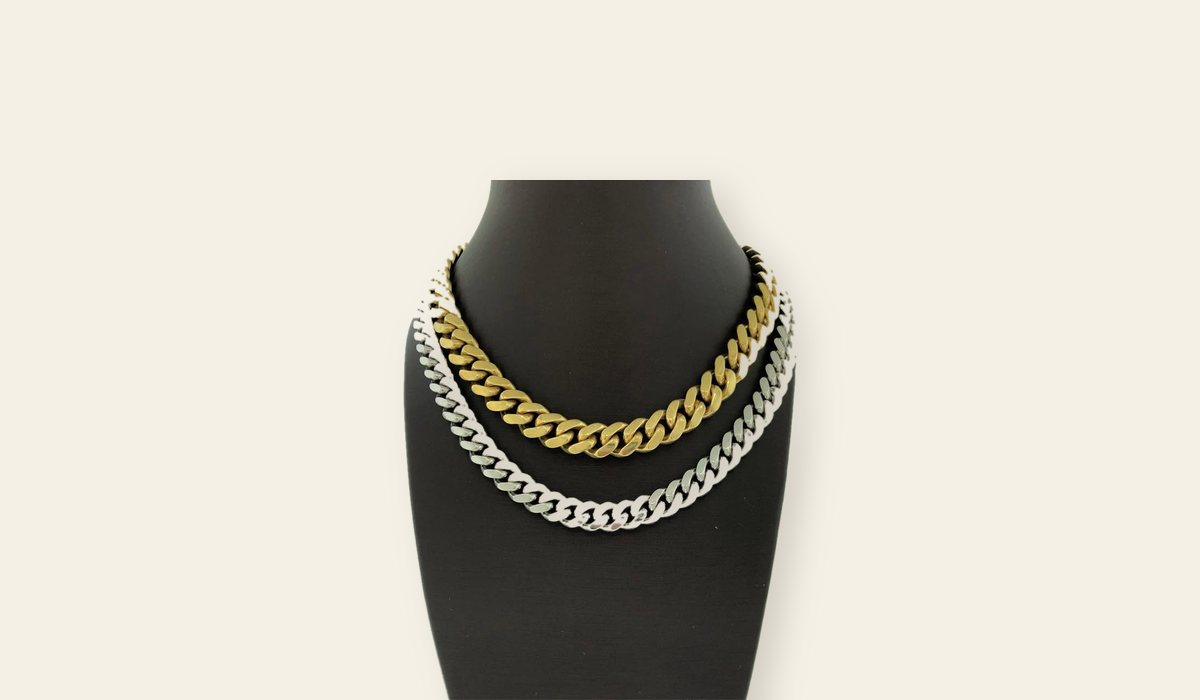
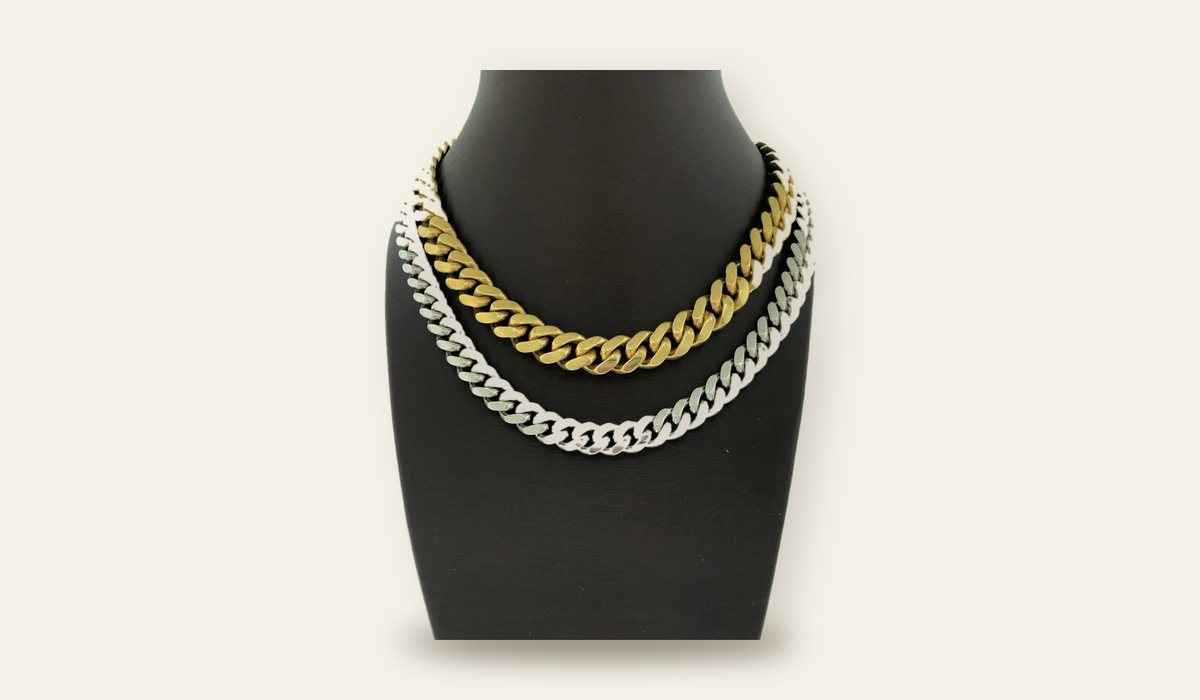
Phone heroes: taller band, clean paper slides, nothing clipped

Changed region(s): [[0.3083, 0.09, 0.6783, 0.84], [0.3392, 0.81, 0.6475, 1.0]]

diff --git a/index.html b/index.html
@@ -21,7 +21,7 @@
 <link rel="preload" href="/aframs-site-preview/fonts/hanken.woff2" as="font" type="font/woff2" crossorigin>
 <link rel="preload" href="/aframs-site-preview/img/hero-1600.jpg" as="image" media="(min-width: 761px)">
 <link rel="preload" href="/aframs-site-preview/img/hero-m.jpg" as="image" media="(max-width: 760px)">
-<link rel="stylesheet" href="/aframs-site-preview/css/site.css?v=d409207c">
+<link rel="stylesheet" href="/aframs-site-preview/css/site.css?v=5d2cd0c8">
 <script type="application/ld+json">{"@context": "https://schema.org", "@type": "JewelryStore", "name": "Afram's Jewelers", "url": "https://www.aframs.com/", "telephone": "+1-361-993-9391", "email": "aframsjewelers@gmail.com", "foundingDate": "1978", "founder": {"@type": "Person", "name": "Joseph Malak Afram"}, "address": {"@type": "PostalAddress", "streetAddress": "1701 Airline Rd", "addressLocality": "Corpus Christi", "addressRegion": "TX", "postalCode": "78412", "addressCountry": "US"}, "geo": {"@type": "GeoCoordinates", "latitude": 27.6991582, "longitude": -97.3633394}, "openingHoursSpecification": [{"@type": "OpeningHoursSpecification", "dayOfWeek": ["Tuesday", "Wednesday", "Thursday", "Friday", "Saturday"], "opens": "10:00", "closes": "18:00"}], "aggregateRating": {"@type": "AggregateRating", "ratingValue": "4.7", "reviewCount": "389"}, "sameAs": ["https://www.facebook.com/aframsjewelers/", "https://www.instagram.com/aframs.jewelers/"], "image": "https://www.aframs.com/img/og.jpg"}</script>
 </head>
 <body>
@@ -56,7 +56,7 @@
 
 <main id="top">
   <section class="hero hero-show" aria-label="Welcome">
-    <div class="slides"><figure class="slide full on"><picture><source media="(max-width:760px)" srcset="/aframs-site-preview/img/hero-m.jpg"><img src="/aframs-site-preview/img/hero-1600.jpg" alt="Pear-shaped diamond solitaire engagement ring" style="--pos:78% 50%;--mpos:50% 40%" fetchpriority="high"></picture></figure><figure class="slide full"><picture><source media="(max-width:760px)" srcset="/aframs-site-preview/img/hero-jewelry-800.jpg"><img src="/aframs-site-preview/img/slide-jewels.jpg" alt="Diamond and gemstone jewelry" style="--pos:50% 50%;--mpos:45% 30%" loading="lazy"></picture></figure><figure class="slide full"><picture><source media="(max-width:760px)" srcset="/aframs-site-preview/img/slide-seiko-m.jpg"><img src="/aframs-site-preview/img/slide-seiko.jpg" alt="Seiko Prospex Samurai, Seiko 5 Sports and two-tone Seiko dress watch" style="--pos:50% 50%;--mpos:50% 50%" loading="lazy"></picture></figure><figure class="slide full"><picture><source media="(max-width:760px)" srcset="/aframs-site-preview/img/slide-gold-m.jpg"><img src="/aframs-site-preview/img/slide-gold.jpg" alt="Gold and white gold cuban link chains on a display bust" style="--pos:50% 50%;--mpos:50% 100%" loading="lazy"></picture></figure><figure class="slide side"><picture><source media="(max-width:760px)" srcset="/aframs-site-preview/img/hero-repair-800.jpg"><img src="/aframs-site-preview/img/hero-repair-1500.jpg" alt="Woman fastening the clasp of a gold chain necklace" style="--pos:50% 78%;--mpos:50% 62%" loading="lazy"></picture></figure></div>
+    <div class="slides"><figure class="slide full on"><picture><source media="(max-width:760px)" srcset="/aframs-site-preview/img/hero-m.jpg"><img src="/aframs-site-preview/img/hero-1600.jpg" alt="Pear-shaped diamond solitaire engagement ring" style="--pos:78% 50%;--mpos:50% 40%" fetchpriority="high"></picture></figure><figure class="slide full"><picture><source media="(max-width:760px)" srcset="/aframs-site-preview/img/slide-jewels-m.jpg"><img src="/aframs-site-preview/img/slide-jewels.jpg" alt="Sapphire ring, diamond pendant, ruby drop earrings and emerald cuff bracelet" style="--pos:50% 50%;--mpos:50% 50%" loading="lazy"></picture></figure><figure class="slide full"><picture><source media="(max-width:760px)" srcset="/aframs-site-preview/img/slide-seiko-m.jpg"><img src="/aframs-site-preview/img/slide-seiko.jpg" alt="Seiko Prospex Samurai, Seiko 5 Sports and two-tone Seiko dress watch" style="--pos:50% 50%;--mpos:50% 50%" loading="lazy"></picture></figure><figure class="slide full"><picture><source media="(max-width:760px)" srcset="/aframs-site-preview/img/slide-gold-m.jpg"><img src="/aframs-site-preview/img/slide-gold.jpg" alt="Gold and white gold cuban link chains on a display bust" style="--pos:50% 50%;--mpos:50% 50%" loading="lazy"></picture></figure><figure class="slide side"><picture><source media="(max-width:760px)" srcset="/aframs-site-preview/img/slide-repair-m.jpg"><img src="/aframs-site-preview/img/hero-repair-1500.jpg" alt="Gold chains and jewelry for repair" style="--pos:50% 78%;--mpos:50% 50%" loading="lazy"></picture></figure></div>
     <div class="wrap">
       <div class="hero-copy">
         <h1>Integrity and<br> personal service,<br> since&nbsp;1978.</h1>
@@ -276,6 +276,6 @@
 </div>
 
 <script>window.R=[{"n": "Nellie S.", "t": "I’ve had a couple of jewelry repairs completed here and have always been treated fairly. The quality of the work has been great, and overall, I’ve been happy with my experiences."}, {"n": "Kathi C.", "t": "I stopped in twice after I received recommendations from a couple of friends. I needed some work done on a couple of bracelets."}, {"n": "Chris P.", "t": "I have been coming to their establishment for several years now it’s hard to find a place that replaces batteries for watches. They’re very reasonable and very polite."}, {"n": "Jake M.", "t": "The team at Aframs is the best. They took care of multiple projects for me from in store buys to customs made items. Highly recommend and will be back!"}, {"n": "Candace H.", "t": "Had such a great experience at Afram’s! I came in expecting to drop off my broken necklace, but they ended up fixing it on the spot in about 10 minutes."}, {"n": "Shane W.", "t": "The folks at Afram’s jewelers are very professional very courteous, very helpful and knowledgeable and just go above and beyond as far as repairing jewelry and helping any way, they can great customer service, exceptional excellent customer service!!!!"}, {"n": "Patti Z.", "t": "These are some of the most wonderful people! It is family owned and operated. Most of all, they are HONEST AND FAIR in all of their dealings."}, {"n": "Shea M.", "t": "Always a great experience. Family owned and operated. Great people and great deals."}, {"n": "Travis R.", "t": "Awesome customer service everytime I walk through the door!"}, {"n": "Sylvia B.", "t": "Hubby purchased my wedding ring here 17 years ago and we still frequent here for other jewelry pieces. They are always kind, patient and attentive."}, {"n": "The Patriot", "t": "My wife's wedding set was missing a prong so I brought it to Afram's for repair, cleaning,and appraisal."}, {"n": "Heather L.", "t": "Afram's is my only go to jeweler. They have been helpful with all my purchases, from rings, bracelets, necklaces and watches. I wouldn't dream of going anywhere else."}, {"n": "Dana E.", "t": "I lived down south about 16 years ago and loved going in the jewelry store. Such sweet people!! I took my mother’s jewelry there to be worked on because I only trusted them!!"}, {"n": "Dharma C.", "t": "I'm always greeted with a smile and hello how can we help you. Able to answer any questions, work with you on fair deals and have an exceptional variety of beautiful watches and jewelry."}, {"n": "Guillermo C.", "t": "Phenomenal team always helpful always reasonable great communication great products"}, {"n": "Matt A.", "t": "Had a watch and a necklace repairs and Cleaned. They got both taken care of quickly. Both are in great condition and look better than ever."}, {"n": "Chris S.", "t": "Afram Family has always been great to work with. Fast and professional service. My go to spot for all my new meet and watch repairs!"}, {"n": "Big Bald Guy", "t": "I was in the market for a unique watch, the staff took my info and the next thing you know I’m buying a cool watch! Only 2700 made world wide. Those numbers are good and the price was fair, no markup!"}, {"n": "Mark V.", "t": "Afram’s Jewelers has been a trusted family jeweler for over 15 years. Their knowledge, professionalism and family-friendly atmosphere is unparalleled and the reason I highly recommend them."}, {"n": "Kelly F.", "t": "The people in this store are the most helpful and kind people. They resolved my issue when other stores wouldn't. Great store with quality. A special thanks to Malak Afram and Mark."}, {"n": "Judith A.", "t": "I had several watches that needed batteries, they took care of all of them, quickly and for a good price. Will repeat business, very nice people."}, {"n": "Noyes R.", "t": "I brought an old college ring to Afram's to be resized."}, {"n": "Beth S.", "t": "My wedding ring had a few prongs that were broke and had 2 diamonds that fell out after only a week of having it cleaned and examined by my prior jeweler."}, {"n": "Brandon R.", "t": "Gotta give this place 5 stars they, they told me they can take my chain in and have it done the next day. 45 minutes to an hour passes and I get a phone call saying my chain is ready."}, {"n": "Michelle C.", "t": "I had another opportunity to visit Afram’s and got a beautiful pair of earrings. They worked with me on a return and everything turned out great."}, {"n": "Taylor S.", "t": "These guys did such an outstanding job! I went in with 2 watches to get batteries replaced. They did it right on the spot. I also had 3 rings resized, which look amazing!"}, {"n": "Carolyn B.", "t": "This is a multi-generation family business. They are very professional with a excellent selection of jewelry. They also do custom work and have made two pieces for me that were perfect."}, {"n": "Quentin Z.", "t": "I needed a quick and simple repair on my fiancé’s necklace she has had for over 20 years. I was worried about it being too difficult to repair and it being too expensive."}, {"n": "Jonathan B.", "t": "I take my watches there for battery replacements and it has never taken more than 15 minutes."}, {"n": "Rich H.", "t": "Great local & honest family owned business. I don't know if they are the cheapest in town, because I haven't shopped around, but higher end service & quality rarely is. I'd definitely reccommend."}, {"n": "Cody C.", "t": "Afram’s always takes great care of my broken jewlery."}, {"n": "Triciaann H.", "t": "I love Aframs jewelers they are friendly and have it excellent jewelry repair. He has been able to repair anything I bring him. I highly recommend the store for your jewelry needs and repairs."}, {"n": "Mike W.", "t": "I brought in a watch and ring to be fixed. They were ready the next day. Great service. I would use them again in a heartbeat."}, {"n": "Sharon", "t": "I highly recommend Aframs Jewelers for the work they did to make a unique anniversary ring my husband bought many years ago."}, {"n": "Blake L.", "t": "First time engagement ring shopper here! While in the market for a ring, I looked everywhere throughout town and decided to give Afram's Jewelers a look."}, {"n": "Logan B.", "t": "If you’re looking for a place to buy an engagement ring, stop looking. This place, Afram’s is without a doubt where you should go."}, {"n": "Judy G.", "t": "Several days ago, I broke the chain on my favorite bracelet. I did not know any jewelers in Corpus but remembered passing Afram’s and called, hoping they could help me."}, {"n": "Liz M.", "t": "I love this family own business. They are fantastic people. I have bought rings and put them on lay way. They helped us out with a battery we needed for a watch and sized it down for us."}, {"n": "Judy", "t": "I always love to come to Afram's Jewelers for any of my jewelry needs. It is a family owned business and they greet you with warmth and personal attention."}, {"n": "Asia R.", "t": "I am from up north in Lubbock. I went on vacation and got my ring stuck on my hand. To the point that my finger was bleeding."}, {"n": "Alycia C.", "t": "I had the most amazing experience here from start to finish."}, {"n": "Robert K.", "t": "Went in with my wife to look at upgrading her ring. I don't know much about stones and etc, but every single person up there was very polite, and made sure to not make me feel like an idiot."}, {"n": "V W.", "t": "Recently shopped for an anniversary ring and was not disappointed in the advice, the clarity and color of the diamonds and their fabulous customer service. What a great family of integrity!"}, {"n": "Denna R.", "t": "It is family owned. They are all very nice, courteous, helpful. They meet all my jewelry needs. They give wonderful discounts. Friendly and make you feel as a part of the family."}, {"n": "Rhea M.", "t": "Gina and Joseph were very pleasant to deal with. Joseph I actually took care of my issue right there on the spot and I did not have to come back the next day which was a pleasant surprise."}, {"n": "Sarah L.", "t": "I recently had Mark engrave some items for me for anniversary and Christmas gifts and he truly went above and beyond!"}, {"n": "Jacob L.", "t": "Very happy with the service and the results of the work performed on my wife’s wedding set! They were so friendly and helpful. I will definitely be back there for any further jewelry repair services."}, {"n": "Oscar R.", "t": "Afram’s Jewelers is great. I took a fisherman’s bracelet over to have the clasp replaced. They thought they might be able to fix it (instead of replacing it)."}, {"n": "Lynde P.", "t": "I always have a wonderful experience at Afram’s Jewelers! They are my go to jewelry store for new purchases AND repairs! Joseph and Gina are so kind and MAKE US FEEL LIKE FAMILY!!"}];</script>
-<script src="/aframs-site-preview/js/site.js?v=d409207c" defer></script>
+<script src="/aframs-site-preview/js/site.js?v=5d2cd0c8" defer></script>
 </body>
 </html>

diff --git a/jewelry-repair/index.html b/jewelry-repair/index.html
@@ -20,7 +20,7 @@
 <link rel="preload" href="/aframs-site-preview/fonts/aframs-logo.woff2" as="font" type="font/woff2" crossorigin>
 <link rel="preload" href="/aframs-site-preview/fonts/hanken.woff2" as="font" type="font/woff2" crossorigin>
 <link rel="preload" as="image" href="/aframs-site-preview/img/hero-repair-1500.jpg" imagesrcset="/aframs-site-preview/img/hero-repair-800.jpg 800w, /aframs-site-preview/img/hero-repair-1500.jpg 1500w" imagesizes="(max-width:760px) 100vw, 62vw">
-<link rel="stylesheet" href="/aframs-site-preview/css/site.css?v=d409207c">
+<link rel="stylesheet" href="/aframs-site-preview/css/site.css?v=5d2cd0c8">
 <script type="application/ld+json">{"@context": "https://schema.org", "@type": "JewelryStore", "name": "Afram's Jewelers", "url": "https://www.aframs.com/", "telephone": "+1-361-993-9391", "email": "aframsjewelers@gmail.com", "foundingDate": "1978", "founder": {"@type": "Person", "name": "Joseph Malak Afram"}, "address": {"@type": "PostalAddress", "streetAddress": "1701 Airline Rd", "addressLocality": "Corpus Christi", "addressRegion": "TX", "postalCode": "78412", "addressCountry": "US"}, "geo": {"@type": "GeoCoordinates", "latitude": 27.6991582, "longitude": -97.3633394}, "openingHoursSpecification": [{"@type": "OpeningHoursSpecification", "dayOfWeek": ["Tuesday", "Wednesday", "Thursday", "Friday", "Saturday"], "opens": "10:00", "closes": "18:00"}], "aggregateRating": {"@type": "AggregateRating", "ratingValue": "4.7", "reviewCount": "389"}, "sameAs": ["https://www.facebook.com/aframsjewelers/", "https://www.instagram.com/aframs.jewelers/"], "image": "https://www.aframs.com/img/og.jpg"}</script>
 <script type="application/ld+json">{"@context": "https://schema.org", "@type": "BreadcrumbList", "itemListElement": [{"@type": "ListItem", "position": 1, "name": "Home", "item": "https://www.aframs.com/"}, {"@type": "ListItem", "position": 2, "name": "Services"}, {"@type": "ListItem", "position": 3, "name": "Jewelry repair", "item": "https://www.aframs.com/jewelry-repair/"}]}</script>
 </head>
@@ -57,7 +57,8 @@
 <main id="top">
   <section class="hero phero" aria-label="Jewelry repair">
     <picture>
-      <img src="/aframs-site-preview/img/hero-repair-1500.jpg" srcset="/aframs-site-preview/img/hero-repair-800.jpg 800w, /aframs-site-preview/img/hero-repair-1500.jpg 1500w" sizes="(max-width:760px) 100vw, 62vw" alt="Woman fastening the clasp of a gold chain necklace" fetchpriority="high" width="1080" height="1080" style="--pos:50% 78%;--mpos:50% 62%">
+      <source media="(max-width:760px)" srcset="/aframs-site-preview/img/slide-repair-m.jpg">
+      <img src="/aframs-site-preview/img/hero-repair-1500.jpg" srcset="/aframs-site-preview/img/hero-repair-800.jpg 800w, /aframs-site-preview/img/hero-repair-1500.jpg 1500w" sizes="(max-width:760px) 100vw, 62vw" alt="Gold chains and jewelry for repair" fetchpriority="high" width="1080" height="1080" style="--pos:50% 78%;--mpos:50% 50%">
     </picture>
     <div class="wrap">
       <div class="hero-copy">
@@ -209,6 +210,6 @@
   <a class="text" href="sms:+13619939391"><svg><use href="#i-chat"/></svg>Text a photo</a>
 </div>
 
-<script src="/aframs-site-preview/js/site.js?v=d409207c" defer></script>
+<script src="/aframs-site-preview/js/site.js?v=5d2cd0c8" defer></script>
 </body>
 </html>

diff --git a/we-buy-gold/index.html b/we-buy-gold/index.html
@@ -20,7 +20,7 @@
 <link rel="preload" href="/aframs-site-preview/fonts/aframs-logo.woff2" as="font" type="font/woff2" crossorigin>
 <link rel="preload" href="/aframs-site-preview/fonts/hanken.woff2" as="font" type="font/woff2" crossorigin>
 <link rel="preload" as="image" href="/aframs-site-preview/img/hero-gold-1500.jpg" imagesrcset="/aframs-site-preview/img/hero-gold-800.jpg 800w, /aframs-site-preview/img/hero-gold-1500.jpg 1500w" imagesizes="(max-width:760px) 100vw, 62vw">
-<link rel="stylesheet" href="/aframs-site-preview/css/site.css?v=d409207c">
+<link rel="stylesheet" href="/aframs-site-preview/css/site.css?v=5d2cd0c8">
 <script type="application/ld+json">{"@context": "https://schema.org", "@type": "JewelryStore", "name": "Afram's Jewelers", "url": "https://www.aframs.com/", "telephone": "+1-361-993-9391", "email": "aframsjewelers@gmail.com", "foundingDate": "1978", "founder": {"@type": "Person", "name": "Joseph Malak Afram"}, "address": {"@type": "PostalAddress", "streetAddress": "1701 Airline Rd", "addressLocality": "Corpus Christi", "addressRegion": "TX", "postalCode": "78412", "addressCountry": "US"}, "geo": {"@type": "GeoCoordinates", "latitude": 27.6991582, "longitude": -97.3633394}, "openingHoursSpecification": [{"@type": "OpeningHoursSpecification", "dayOfWeek": ["Tuesday", "Wednesday", "Thursday", "Friday", "Saturday"], "opens": "10:00", "closes": "18:00"}], "aggregateRating": {"@type": "AggregateRating", "ratingValue": "4.7", "reviewCount": "389"}, "sameAs": ["https://www.facebook.com/aframsjewelers/", "https://www.instagram.com/aframs.jewelers/"], "image": "https://www.aframs.com/img/og.jpg"}</script>
 <script type="application/ld+json">{"@context": "https://schema.org", "@type": "BreadcrumbList", "itemListElement": [{"@type": "ListItem", "position": 1, "name": "Home", "item": "https://www.aframs.com/"}, {"@type": "ListItem", "position": 2, "name": "Services"}, {"@type": "ListItem", "position": 3, "name": "We buy gold", "item": "https://www.aframs.com/we-buy-gold/"}]}</script>
 </head>
@@ -57,7 +57,8 @@
 <main id="top">
   <section class="hero phero" aria-label="We buy gold">
     <picture>
-      <img src="/aframs-site-preview/img/hero-gold-1500.jpg" srcset="/aframs-site-preview/img/hero-gold-800.jpg 800w, /aframs-site-preview/img/hero-gold-1500.jpg 1500w" sizes="(max-width:760px) 100vw, 62vw" alt="Gold and white gold cuban link chains on a display bust" fetchpriority="high" width="918" height="960" style="--pos:50% 35%;--mpos:50% 30%">
+      <source media="(max-width:760px)" srcset="/aframs-site-preview/img/slide-gold-m.jpg">
+      <img src="/aframs-site-preview/img/hero-gold-1500.jpg" srcset="/aframs-site-preview/img/hero-gold-800.jpg 800w, /aframs-site-preview/img/hero-gold-1500.jpg 1500w" sizes="(max-width:760px) 100vw, 62vw" alt="Gold and white gold cuban link chains on a display bust" fetchpriority="high" width="918" height="960" style="--pos:50% 35%;--mpos:50% 50%">
     </picture>
     <div class="wrap">
       <div class="hero-copy">
@@ -209,6 +210,6 @@
   <a class="text" href="sms:+13619939391"><svg><use href="#i-chat"/></svg>Text a photo</a>
 </div>
 
-<script src="/aframs-site-preview/js/site.js?v=d409207c" defer></script>
+<script src="/aframs-site-preview/js/site.js?v=5d2cd0c8" defer></script>
 </body>
 </html>

diff --git a/jewelry/index.html b/jewelry/index.html
@@ -20,7 +20,7 @@
 <link rel="preload" href="/aframs-site-preview/fonts/aframs-logo.woff2" as="font" type="font/woff2" crossorigin>
 <link rel="preload" href="/aframs-site-preview/fonts/hanken.woff2" as="font" type="font/woff2" crossorigin>
 <link rel="preload" as="image" href="/aframs-site-preview/img/hero-jewelry-1500.jpg" imagesrcset="/aframs-site-preview/img/hero-jewelry-800.jpg 800w, /aframs-site-preview/img/hero-jewelry-1500.jpg 1500w" imagesizes="(max-width:760px) 100vw, 62vw">
-<link rel="stylesheet" href="/aframs-site-preview/css/site.css?v=d409207c">
+<link rel="stylesheet" href="/aframs-site-preview/css/site.css?v=5d2cd0c8">
 <script type="application/ld+json">{"@context": "https://schema.org", "@type": "JewelryStore", "name": "Afram's Jewelers", "url": "https://www.aframs.com/", "telephone": "+1-361-993-9391", "email": "aframsjewelers@gmail.com", "foundingDate": "1978", "founder": {"@type": "Person", "name": "Joseph Malak Afram"}, "address": {"@type": "PostalAddress", "streetAddress": "1701 Airline Rd", "addressLocality": "Corpus Christi", "addressRegion": "TX", "postalCode": "78412", "addressCountry": "US"}, "geo": {"@type": "GeoCoordinates", "latitude": 27.6991582, "longitude": -97.3633394}, "openingHoursSpecification": [{"@type": "OpeningHoursSpecification", "dayOfWeek": ["Tuesday", "Wednesday", "Thursday", "Friday", "Saturday"], "opens": "10:00", "closes": "18:00"}], "aggregateRating": {"@type": "AggregateRating", "ratingValue": "4.7", "reviewCount": "389"}, "sameAs": ["https://www.facebook.com/aframsjewelers/", "https://www.instagram.com/aframs.jewelers/"], "image": "https://www.aframs.com/img/og.jpg"}</script>
 <script type="application/ld+json">{"@context": "https://schema.org", "@type": "BreadcrumbList", "itemListElement": [{"@type": "ListItem", "position": 1, "name": "Home", "item": "https://www.aframs.com/"}, {"@type": "ListItem", "position": 2, "name": "Shop fine jewelry", "item": "https://www.aframs.com/jewelry/"}]}</script>
 </head>
@@ -57,7 +57,8 @@
 <main id="top">
   <section class="hero phero" aria-label="Fine jewelry">
     <picture>
-      <img src="/aframs-site-preview/img/hero-jewelry-1500.jpg" srcset="/aframs-site-preview/img/hero-jewelry-800.jpg 800w, /aframs-site-preview/img/hero-jewelry-1500.jpg 1500w" sizes="(max-width:760px) 100vw, 62vw" alt="Woman wearing a diamond ring and diamond stud earrings" fetchpriority="high" width="1500" height="1500" style="--pos:38% 35%;--mpos:45% 30%">
+      <source media="(max-width:760px)" srcset="/aframs-site-preview/img/slide-jewels-m.jpg">
+      <img src="/aframs-site-preview/img/hero-jewelry-1500.jpg" srcset="/aframs-site-preview/img/hero-jewelry-800.jpg 800w, /aframs-site-preview/img/hero-jewelry-1500.jpg 1500w" sizes="(max-width:760px) 100vw, 62vw" alt="Diamond and gemstone jewelry" fetchpriority="high" width="1500" height="1500" style="--pos:38% 35%;--mpos:50% 50%">
     </picture>
     <div class="wrap">
       <div class="hero-copy">
@@ -221,6 +222,6 @@
   <a class="text" href="sms:+13619939391"><svg><use href="#i-chat"/></svg>Text a photo</a>
 </div>
 
-<script src="/aframs-site-preview/js/site.js?v=d409207c" defer></script>
+<script src="/aframs-site-preview/js/site.js?v=5d2cd0c8" defer></script>
 </body>
 </html>

diff --git a/engagement-rings/index.html b/engagement-rings/index.html
@@ -20,7 +20,7 @@
 <link rel="preload" href="/aframs-site-preview/fonts/aframs-logo.woff2" as="font" type="font/woff2" crossorigin>
 <link rel="preload" href="/aframs-site-preview/fonts/hanken.woff2" as="font" type="font/woff2" crossorigin>
 <link rel="preload" as="image" href="/aframs-site-preview/img/hero-engagement-1500.jpg" imagesrcset="/aframs-site-preview/img/hero-engagement-800.jpg 800w, /aframs-site-preview/img/hero-engagement-1500.jpg 1500w" imagesizes="(max-width:760px) 100vw, 62vw">
-<link rel="stylesheet" href="/aframs-site-preview/css/site.css?v=d409207c">
+<link rel="stylesheet" href="/aframs-site-preview/css/site.css?v=5d2cd0c8">
 <script type="application/ld+json">{"@context": "https://schema.org", "@type": "JewelryStore", "name": "Afram's Jewelers", "url": "https://www.aframs.com/", "telephone": "+1-361-993-9391", "email": "aframsjewelers@gmail.com", "foundingDate": "1978", "founder": {"@type": "Person", "name": "Joseph Malak Afram"}, "address": {"@type": "PostalAddress", "streetAddress": "1701 Airline Rd", "addressLocality": "Corpus Christi", "addressRegion": "TX", "postalCode": "78412", "addressCountry": "US"}, "geo": {"@type": "GeoCoordinates", "latitude": 27.6991582, "longitude": -97.3633394}, "openingHoursSpecification": [{"@type": "OpeningHoursSpecification", "dayOfWeek": ["Tuesday", "Wednesday", "Thursday", "Friday", "Saturday"], "opens": "10:00", "closes": "18:00"}], "aggregateRating": {"@type": "AggregateRating", "ratingValue": "4.7", "reviewCount": "389"}, "sameAs": ["https://www.facebook.com/aframsjewelers/", "https://www.instagram.com/aframs.jewelers/"], "image": "https://www.aframs.com/img/og.jpg"}</script>
 <script type="application/ld+json">{"@context": "https://schema.org", "@type": "BreadcrumbList", "itemListElement": [{"@type": "ListItem", "position": 1, "name": "Home", "item": "https://www.aframs.com/"}, {"@type": "ListItem", "position": 2, "name": "Shop", "item": "https://www.aframs.com/jewelry/"}, {"@type": "ListItem", "position": 3, "name": "Engagement rings", "item": "https://www.aframs.com/engagement-rings/"}]}</script>
 </head>
@@ -215,6 +215,6 @@
   <a class="text" href="sms:+13619939391"><svg><use href="#i-chat"/></svg>Text a photo</a>
 </div>
 
-<script src="/aframs-site-preview/js/site.js?v=d409207c" defer></script>
+<script src="/aframs-site-preview/js/site.js?v=5d2cd0c8" defer></script>
 </body>
 </html>

diff --git a/seiko-watches/index.html b/seiko-watches/index.html
@@ -20,7 +20,7 @@
 <link rel="preload" href="/aframs-site-preview/fonts/aframs-logo.woff2" as="font" type="font/woff2" crossorigin>
 <link rel="preload" href="/aframs-site-preview/fonts/hanken.woff2" as="font" type="font/woff2" crossorigin>
 <link rel="preload" as="image" href="/aframs-site-preview/img/hero-seiko-1500.jpg" imagesrcset="/aframs-site-preview/img/hero-seiko-800.jpg 800w, /aframs-site-preview/img/hero-seiko-1500.jpg 1500w" imagesizes="(max-width:760px) 100vw, 62vw">
-<link rel="stylesheet" href="/aframs-site-preview/css/site.css?v=d409207c">
+<link rel="stylesheet" href="/aframs-site-preview/css/site.css?v=5d2cd0c8">
 <script type="application/ld+json">{"@context": "https://schema.org", "@type": "JewelryStore", "name": "Afram's Jewelers", "url": "https://www.aframs.com/", "telephone": "+1-361-993-9391", "email": "aframsjewelers@gmail.com", "foundingDate": "1978", "founder": {"@type": "Person", "name": "Joseph Malak Afram"}, "address": {"@type": "PostalAddress", "streetAddress": "1701 Airline Rd", "addressLocality": "Corpus Christi", "addressRegion": "TX", "postalCode": "78412", "addressCountry": "US"}, "geo": {"@type": "GeoCoordinates", "latitude": 27.6991582, "longitude": -97.3633394}, "openingHoursSpecification": [{"@type": "OpeningHoursSpecification", "dayOfWeek": ["Tuesday", "Wednesday", "Thursday", "Friday", "Saturday"], "opens": "10:00", "closes": "18:00"}], "aggregateRating": {"@type": "AggregateRating", "ratingValue": "4.7", "reviewCount": "389"}, "sameAs": ["https://www.facebook.com/aframsjewelers/", "https://www.instagram.com/aframs.jewelers/"], "image": "https://www.aframs.com/img/og.jpg"}</script>
 <script type="application/ld+json">{"@context": "https://schema.org", "@type": "BreadcrumbList", "itemListElement": [{"@type": "ListItem", "position": 1, "name": "Home", "item": "https://www.aframs.com/"}, {"@type": "ListItem", "position": 2, "name": "Shop", "item": "https://www.aframs.com/jewelry/"}, {"@type": "ListItem", "position": 3, "name": "Seiko watches", "item": "https://www.aframs.com/seiko-watches/"}]}</script>
 </head>
@@ -203,6 +203,6 @@
   <a class="text" href="sms:+13619939391"><svg><use href="#i-chat"/></svg>Text a photo</a>
 </div>
 
-<script src="/aframs-site-preview/js/site.js?v=d409207c" defer></script>
+<script src="/aframs-site-preview/js/site.js?v=5d2cd0c8" defer></script>
 </body>
 </html>

diff --git a/jewelry-appraisals/index.html b/jewelry-appraisals/index.html
@@ -20,7 +20,7 @@
 <link rel="preload" href="/aframs-site-preview/fonts/aframs-logo.woff2" as="font" type="font/woff2" crossorigin>
 <link rel="preload" href="/aframs-site-preview/fonts/hanken.woff2" as="font" type="font/woff2" crossorigin>
 <link rel="preload" as="image" href="/aframs-site-preview/img/hero-appraisal-1500.jpg" imagesrcset="/aframs-site-preview/img/hero-appraisal-800.jpg 800w, /aframs-site-preview/img/hero-appraisal-1500.jpg 1500w" imagesizes="(max-width:760px) 100vw, 62vw">
-<link rel="stylesheet" href="/aframs-site-preview/css/site.css?v=d409207c">
+<link rel="stylesheet" href="/aframs-site-preview/css/site.css?v=5d2cd0c8">
 <script type="application/ld+json">{"@context": "https://schema.org", "@type": "JewelryStore", "name": "Afram's Jewelers", "url": "https://www.aframs.com/", "telephone": "+1-361-993-9391", "email": "aframsjewelers@gmail.com", "foundingDate": "1978", "founder": {"@type": "Person", "name": "Joseph Malak Afram"}, "address": {"@type": "PostalAddress", "streetAddress": "1701 Airline Rd", "addressLocality": "Corpus Christi", "addressRegion": "TX", "postalCode": "78412", "addressCountry": "US"}, "geo": {"@type": "GeoCoordinates", "latitude": 27.6991582, "longitude": -97.3633394}, "openingHoursSpecification": [{"@type": "OpeningHoursSpecification", "dayOfWeek": ["Tuesday", "Wednesday", "Thursday", "Friday", "Saturday"], "opens": "10:00", "closes": "18:00"}], "aggregateRating": {"@type": "AggregateRating", "ratingValue": "4.7", "reviewCount": "389"}, "sameAs": ["https://www.facebook.com/aframsjewelers/", "https://www.instagram.com/aframs.jewelers/"], "image": "https://www.aframs.com/img/og.jpg"}</script>
 <script type="application/ld+json">{"@context": "https://schema.org", "@type": "BreadcrumbList", "itemListElement": [{"@type": "ListItem", "position": 1, "name": "Home", "item": "https://www.aframs.com/"}, {"@type": "ListItem", "position": 2, "name": "Services"}, {"@type": "ListItem", "position": 3, "name": "Jewelry appraisals", "item": "https://www.aframs.com/jewelry-appraisals/"}]}</script>
 </head>
@@ -209,6 +209,6 @@
   <a class="text" href="sms:+13619939391"><svg><use href="#i-chat"/></svg>Text a photo</a>
 </div>
 
-<script src="/aframs-site-preview/js/site.js?v=d409207c" defer></script>
+<script src="/aframs-site-preview/js/site.js?v=5d2cd0c8" defer></script>
 </body>
 </html>

diff --git a/diamond-education/index.html b/diamond-education/index.html
@@ -20,7 +20,7 @@
 <link rel="preload" href="/aframs-site-preview/fonts/aframs-logo.woff2" as="font" type="font/woff2" crossorigin>
 <link rel="preload" href="/aframs-site-preview/fonts/hanken.woff2" as="font" type="font/woff2" crossorigin>
 <link rel="preload" as="image" href="/aframs-site-preview/img/hero-diamond-1500.jpg" imagesrcset="/aframs-site-preview/img/hero-diamond-800.jpg 800w, /aframs-site-preview/img/hero-diamond-1500.jpg 1500w" imagesizes="(max-width:760px) 100vw, 62vw">
-<link rel="stylesheet" href="/aframs-site-preview/css/site.css?v=d409207c">
+<link rel="stylesheet" href="/aframs-site-preview/css/site.css?v=5d2cd0c8">
 <script type="application/ld+json">{"@context": "https://schema.org", "@type": "JewelryStore", "name": "Afram's Jewelers", "url": "https://www.aframs.com/", "telephone": "+1-361-993-9391", "email": "aframsjewelers@gmail.com", "foundingDate": "1978", "founder": {"@type": "Person", "name": "Joseph Malak Afram"}, "address": {"@type": "PostalAddress", "streetAddress": "1701 Airline Rd", "addressLocality": "Corpus Christi", "addressRegion": "TX", "postalCode": "78412", "addressCountry": "US"}, "geo": {"@type": "GeoCoordinates", "latitude": 27.6991582, "longitude": -97.3633394}, "openingHoursSpecification": [{"@type": "OpeningHoursSpecification", "dayOfWeek": ["Tuesday", "Wednesday", "Thursday", "Friday", "Saturday"], "opens": "10:00", "closes": "18:00"}], "aggregateRating": {"@type": "AggregateRating", "ratingValue": "4.7", "reviewCount": "389"}, "sameAs": ["https://www.facebook.com/aframsjewelers/", "https://www.instagram.com/aframs.jewelers/"], "image": "https://www.aframs.com/img/og.jpg"}</script>
 <script type="application/ld+json">{"@context": "https://schema.org", "@type": "BreadcrumbList", "itemListElement": [{"@type": "ListItem", "position": 1, "name": "Home", "item": "https://www.aframs.com/"}, {"@type": "ListItem", "position": 2, "name": "Learn"}, {"@type": "ListItem", "position": 3, "name": "Diamond guide", "item": "https://www.aframs.com/diamond-education/"}]}</script>
 </head>
@@ -226,6 +226,6 @@
   <a class="text" href="sms:+13619939391"><svg><use href="#i-chat"/></svg>Text a photo</a>
 </div>
 
-<script src="/aframs-site-preview/js/site.js?v=d409207c" defer></script>
+<script src="/aframs-site-preview/js/site.js?v=5d2cd0c8" defer></script>
 </body>
 </html>

diff --git a/ring-repair/index.html b/ring-repair/index.html
@@ -20,7 +20,7 @@
 <link rel="preload" href="/aframs-site-preview/fonts/aframs-logo.woff2" as="font" type="font/woff2" crossorigin>
 <link rel="preload" href="/aframs-site-preview/fonts/hanken.woff2" as="font" type="font/woff2" crossorigin>
 <link rel="preload" as="image" href="/aframs-site-preview/img/hero-rings-1500.jpg" imagesrcset="/aframs-site-preview/img/hero-rings-800.jpg 800w, /aframs-site-preview/img/hero-rings-1500.jpg 1500w" imagesizes="(max-width:760px) 100vw, 62vw">
-<link rel="stylesheet" href="/aframs-site-preview/css/site.css?v=d409207c">
+<link rel="stylesheet" href="/aframs-site-preview/css/site.css?v=5d2cd0c8">
 <script type="application/ld+json">{"@context": "https://schema.org", "@type": "JewelryStore", "name": "Afram's Jewelers", "url": "https://www.aframs.com/", "telephone": "+1-361-993-9391", "email": "aframsjewelers@gmail.com", "foundingDate": "1978", "founder": {"@type": "Person", "name": "Joseph Malak Afram"}, "address": {"@type": "PostalAddress", "streetAddress": "1701 Airline Rd", "addressLocality": "Corpus Christi", "addressRegion": "TX", "postalCode": "78412", "addressCountry": "US"}, "geo": {"@type": "GeoCoordinates", "latitude": 27.6991582, "longitude": -97.3633394}, "openingHoursSpecification": [{"@type": "OpeningHoursSpecification", "dayOfWeek": ["Tuesday", "Wednesday", "Thursday", "Friday", "Saturday"], "opens": "10:00", "closes": "18:00"}], "aggregateRating": {"@type": "AggregateRating", "ratingValue": "4.7", "reviewCount": "389"}, "sameAs": ["https://www.facebook.com/aframsjewelers/", "https://www.instagram.com/aframs.jewelers/"], "image": "https://www.aframs.com/img/og.jpg"}</script>
 <script type="application/ld+json">{"@context": "https://schema.org", "@type": "BreadcrumbList", "itemListElement": [{"@type": "ListItem", "position": 1, "name": "Home", "item": "https://www.aframs.com/"}, {"@type": "ListItem", "position": 2, "name": "Services"}, {"@type": "ListItem", "position": 3, "name": "Ring sizing and repair", "item": "https://www.aframs.com/ring-repair/"}]}</script>
 </head>
@@ -209,6 +209,6 @@
   <a class="text" href="sms:+13619939391"><svg><use href="#i-chat"/></svg>Text a photo</a>
 </div>
 
-<script src="/aframs-site-preview/js/site.js?v=d409207c" defer></script>
+<script src="/aframs-site-preview/js/site.js?v=5d2cd0c8" defer></script>
 </body>
 </html>

diff --git a/estate-jewelry/index.html b/estate-jewelry/index.html
@@ -20,7 +20,7 @@
 <link rel="preload" href="/aframs-site-preview/fonts/aframs-logo.woff2" as="font" type="font/woff2" crossorigin>
 <link rel="preload" href="/aframs-site-preview/fonts/hanken.woff2" as="font" type="font/woff2" crossorigin>
 <link rel="preload" as="image" href="/aframs-site-preview/img/hero-estate-1500.jpg" imagesrcset="/aframs-site-preview/img/hero-estate-800.jpg 800w, /aframs-site-preview/img/hero-estate-1500.jpg 1500w" imagesizes="(max-width:760px) 100vw, 62vw">
-<link rel="stylesheet" href="/aframs-site-preview/css/site.css?v=d409207c">
+<link rel="stylesheet" href="/aframs-site-preview/css/site.css?v=5d2cd0c8">
 <script type="application/ld+json">{"@context": "https://schema.org", "@type": "JewelryStore", "name": "Afram's Jewelers", "url": "https://www.aframs.com/", "telephone": "+1-361-993-9391", "email": "aframsjewelers@gmail.com", "foundingDate": "1978", "founder": {"@type": "Person", "name": "Joseph Malak Afram"}, "address": {"@type": "PostalAddress", "streetAddress": "1701 Airline Rd", "addressLocality": "Corpus Christi", "addressRegion": "TX", "postalCode": "78412", "addressCountry": "US"}, "geo": {"@type": "GeoCoordinates", "latitude": 27.6991582, "longitude": -97.3633394}, "openingHoursSpecification": [{"@type": "OpeningHoursSpecification", "dayOfWeek": ["Tuesday", "Wednesday", "Thursday", "Friday", "Saturday"], "opens": "10:00", "closes": "18:00"}], "aggregateRating": {"@type": "AggregateRating", "ratingValue": "4.7", "reviewCount": "389"}, "sameAs": ["https://www.facebook.com/aframsjewelers/", "https://www.instagram.com/aframs.jewelers/"], "image": "https://www.aframs.com/img/og.jpg"}</script>
 <script type="application/ld+json">{"@context": "https://schema.org", "@type": "BreadcrumbList", "itemListElement": [{"@type": "ListItem", "position": 1, "name": "Home", "item": "https://www.aframs.com/"}, {"@type": "ListItem", "position": 2, "name": "Services"}, {"@type": "ListItem", "position": 3, "name": "Estate jewelry", "item": "https://www.aframs.com/estate-jewelry/"}]}</script>
 </head>
@@ -206,6 +206,6 @@
   <a class="text" href="sms:+13619939391"><svg><use href="#i-chat"/></svg>Text a photo</a>
 </div>
 
-<script src="/aframs-site-preview/js/site.js?v=d409207c" defer></script>
+<script src="/aframs-site-preview/js/site.js?v=5d2cd0c8" defer></script>
 </body>
 </html>

diff --git a/gemstones/index.html b/gemstones/index.html
@@ -20,7 +20,7 @@
 <link rel="preload" href="/aframs-site-preview/fonts/aframs-logo.woff2" as="font" type="font/woff2" crossorigin>
 <link rel="preload" href="/aframs-site-preview/fonts/hanken.woff2" as="font" type="font/woff2" crossorigin>
 <link rel="preload" as="image" href="/aframs-site-preview/img/hero-gems-1500.jpg" imagesrcset="/aframs-site-preview/img/hero-gems-800.jpg 800w, /aframs-site-preview/img/hero-gems-1500.jpg 1500w" imagesizes="(max-width:760px) 100vw, 62vw">
-<link rel="stylesheet" href="/aframs-site-preview/css/site.css?v=d409207c">
+<link rel="stylesheet" href="/aframs-site-preview/css/site.css?v=5d2cd0c8">
 <script type="application/ld+json">{"@context": "https://schema.org", "@type": "JewelryStore", "name": "Afram's Jewelers", "url": "https://www.aframs.com/", "telephone": "+1-361-993-9391", "email": "aframsjewelers@gmail.com", "foundingDate": "1978", "founder": {"@type": "Person", "name": "Joseph Malak Afram"}, "address": {"@type": "PostalAddress", "streetAddress": "1701 Airline Rd", "addressLocality": "Corpus Christi", "addressRegion": "TX", "postalCode": "78412", "addressCountry": "US"}, "geo": {"@type": "GeoCoordinates", "latitude": 27.6991582, "longitude": -97.3633394}, "openingHoursSpecification": [{"@type": "OpeningHoursSpecification", "dayOfWeek": ["Tuesday", "Wednesday", "Thursday", "Friday", "Saturday"], "opens": "10:00", "closes": "18:00"}], "aggregateRating": {"@type": "AggregateRating", "ratingValue": "4.7", "reviewCount": "389"}, "sameAs": ["https://www.facebook.com/aframsjewelers/", "https://www.instagram.com/aframs.jewelers/"], "image": "https://www.aframs.com/img/og.jpg"}</script>
 <script type="application/ld+json">{"@context": "https://schema.org", "@type": "BreadcrumbList", "itemListElement": [{"@type": "ListItem", "position": 1, "name": "Home", "item": "https://www.aframs.com/"}, {"@type": "ListItem", "position": 2, "name": "Learn"}, {"@type": "ListItem", "position": 3, "name": "Gemstone guide", "item": "https://www.aframs.com/gemstones/"}]}</script>
 </head>
@@ -191,6 +191,6 @@
   <a class="text" href="sms:+13619939391"><svg><use href="#i-chat"/></svg>Text a photo</a>
 </div>
 
-<script src="/aframs-site-preview/js/site.js?v=d409207c" defer></script>
+<script src="/aframs-site-preview/js/site.js?v=5d2cd0c8" defer></script>
 </body>
 </html>

diff --git a/watch-repair/index.html b/watch-repair/index.html
@@ -20,7 +20,7 @@
 <link rel="preload" href="/aframs-site-preview/fonts/aframs-logo.woff2" as="font" type="font/woff2" crossorigin>
 <link rel="preload" href="/aframs-site-preview/fonts/hanken.woff2" as="font" type="font/woff2" crossorigin>
 <link rel="preload" as="image" href="/aframs-site-preview/img/slide-seiko.jpg" media="(min-width: 761px)"><link rel="preload" as="image" href="/aframs-site-preview/img/slide-seiko-m.jpg" media="(max-width: 760px)">
-<link rel="stylesheet" href="/aframs-site-preview/css/site.css?v=d409207c">
+<link rel="stylesheet" href="/aframs-site-preview/css/site.css?v=5d2cd0c8">
 <script type="application/ld+json">{"@context": "https://schema.org", "@type": "JewelryStore", "name": "Afram's Jewelers", "url": "https://www.aframs.com/", "telephone": "+1-361-993-9391", "email": "aframsjewelers@gmail.com", "foundingDate": "1978", "founder": {"@type": "Person", "name": "Joseph Malak Afram"}, "address": {"@type": "PostalAddress", "streetAddress": "1701 Airline Rd", "addressLocality": "Corpus Christi", "addressRegion": "TX", "postalCode": "78412", "addressCountry": "US"}, "geo": {"@type": "GeoCoordinates", "latitude": 27.6991582, "longitude": -97.3633394}, "openingHoursSpecification": [{"@type": "OpeningHoursSpecification", "dayOfWeek": ["Tuesday", "Wednesday", "Thursday", "Friday", "Saturday"], "opens": "10:00", "closes": "18:00"}], "aggregateRating": {"@type": "AggregateRating", "ratingValue": "4.7", "reviewCount": "389"}, "sameAs": ["https://www.facebook.com/aframsjewelers/", "https://www.instagram.com/aframs.jewelers/"], "image": "https://www.aframs.com/img/og.jpg"}</script>
 <script type="application/ld+json">{"@context": "https://schema.org", "@type": "BreadcrumbList", "itemListElement": [{"@type": "ListItem", "position": 1, "name": "Home", "item": "https://www.aframs.com/"}, {"@type": "ListItem", "position": 2, "name": "Services"}, {"@type": "ListItem", "position": 3, "name": "Watch repair", "item": "https://www.aframs.com/watch-repair/"}]}</script>
 </head>
@@ -210,6 +210,6 @@
   <a class="text" href="sms:+13619939391"><svg><use href="#i-chat"/></svg>Text a photo</a>
 </div>
 
-<script src="/aframs-site-preview/js/site.js?v=d409207c" defer></script>
+<script src="/aframs-site-preview/js/site.js?v=5d2cd0c8" defer></script>
 </body>
 </html>
